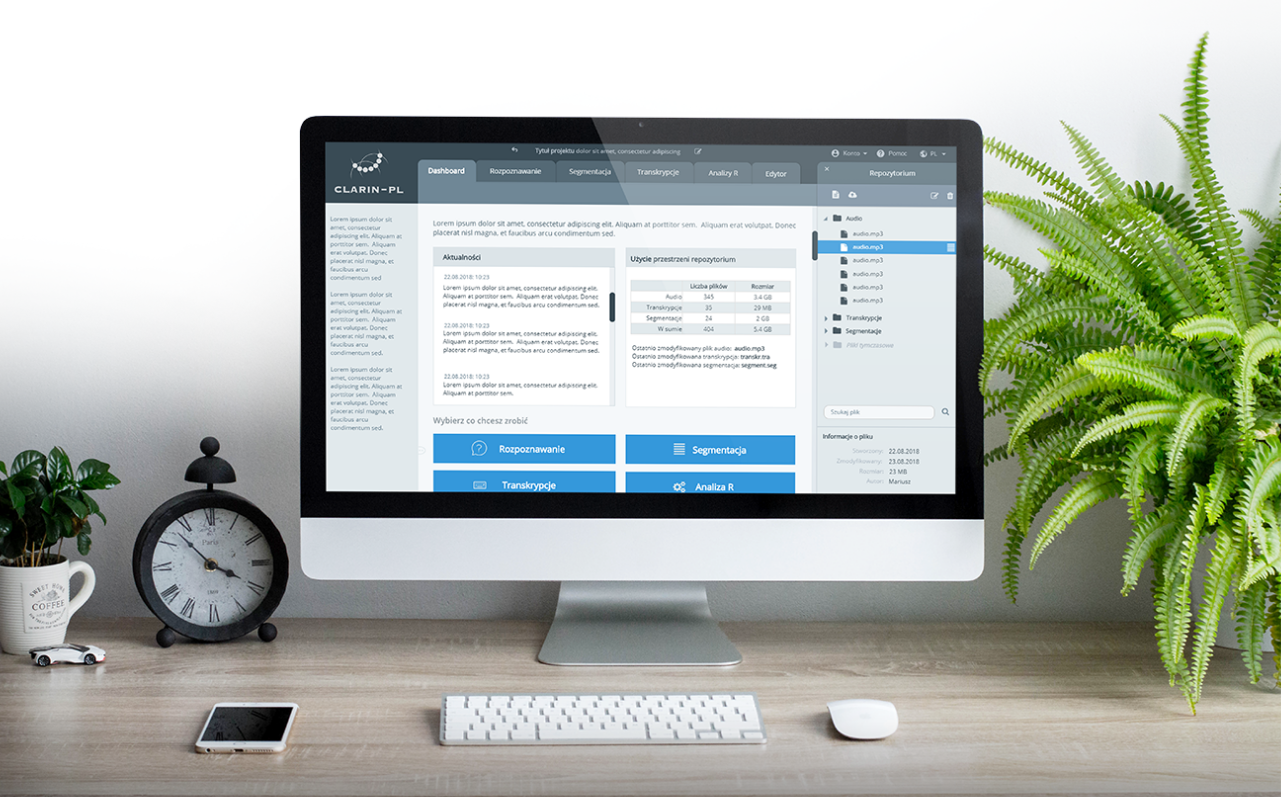
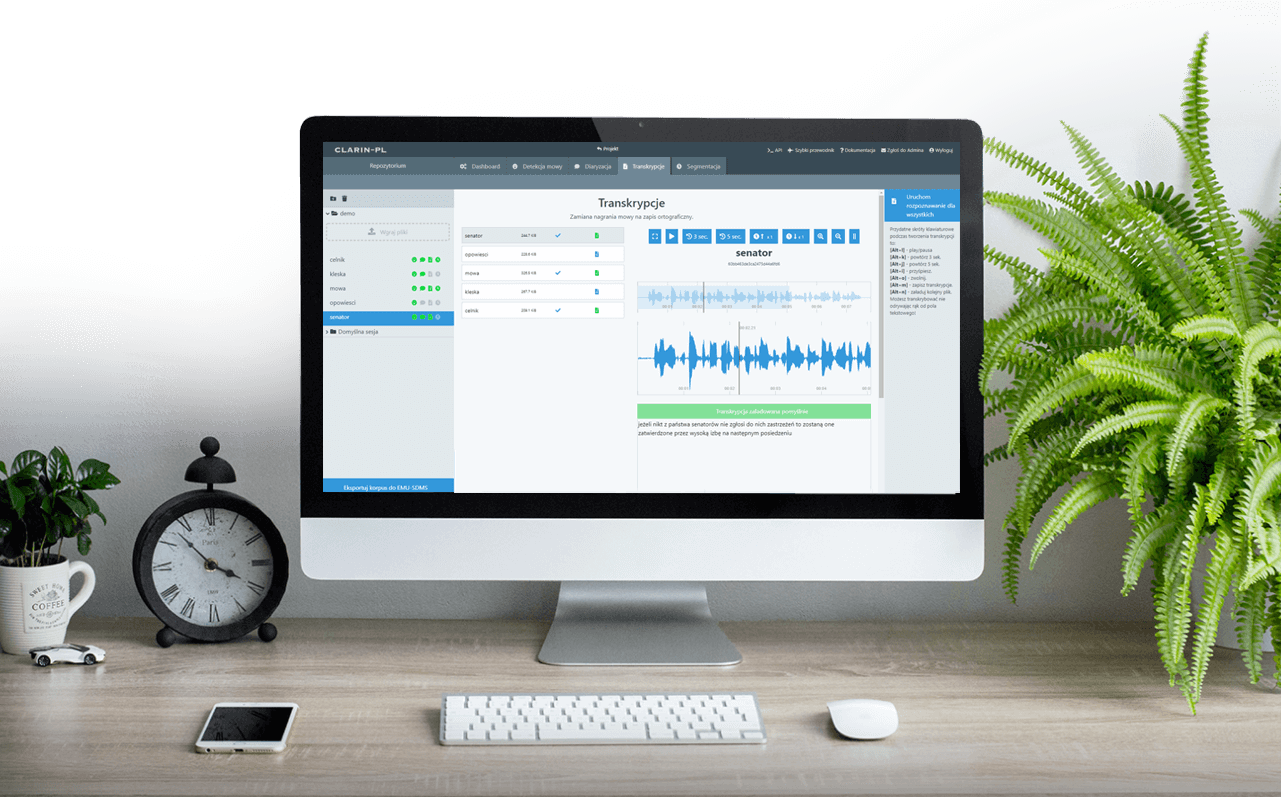
dodanie informacji o braku kontenerów w liscie przetwarzania oraz wymiana obrazka na str. glownej

Changed region(s): [[0.2494, 0.1807, 0.7482, 0.6324]]

diff --git a/src/containers/ProjectPage/Dashboard/Dashboard.js b/src/containers/ProjectPage/Dashboard/Dashboard.js
@@ -18,19 +18,14 @@ class Dashboard extends Component {
       
     render(){
 
-        //let liczbaPlikowRepo = this.props.repoFiles.length;
-        //let liczbaPlikowRepo = 0;
-        //let miejscePlikowRepo = 0;
-       // this.props.repoFiles.map(file => {
-       //     return miejscePlikowRepo = miejscePlikowRepo + file.size;
-       // });
+        console.log(this.props.location)
 
         return(
             <Aux>
     
                 <LeftSiteBar 
                     czyTopPart="true"
-                    desc="W tym miejscu znajdują się statystyki aktualnie wykonywanych usług oraz przestrzeni zajmowanej przez wgrane pliki do repozytorium." />
+                    desc="W tym miejscu znajdują się statystyki przestrzeni zajmowanej przez wgrane pliki do repozytorium oraz pomocne skróty." />
     
                 <SettingBar />
     
@@ -66,30 +61,59 @@ class Dashboard extends Component {
                             </div>
                             <div className="col-md-6">
 
-                                <div className="card mb-3">
-                                    <div className={["card-header", "cardHeader"].join(' ')}>Szybkie linki</div>
-                                    <div className="card-body text-dark">
-                                      
-                                      <p> 
-                                        <Link to={this.props.location.pathname.replace('dashboard','recognition')}>
-                                            <button type="button" className="btn btn-primary btn-block op-btn">
-                                                <i className="fas fa-comments"></i> Rozpoznawanie mowy
+                            <div className="card mb-3">
+                                <div className={["card-header", "cardHeader"].join(' ')}>Szybkie linki</div>
+                                <div className="card-body text-dark">
+                                    <p> 
+                                            <button type="button" className="btn btn-primary btn-block op-btn" onClick={()=>alert("test")}>
+                                                <i className="fas fa-comments"></i> Szybki przewodnik
                                             </button>
-                                        </Link>
-                                      </p>
-                                      <p>
-                                        <Link to={this.props.location.pathname.replace('dashboard','segment')}>
+                                    </p>
+                                    
+                                    <p> 
+                                        <a href="/docs/doc.html" target="_blank">
                                             <button type="button" className="btn btn-primary btn-block op-btn">
-                                                <i className="fas fa-cogs"></i> Segmentacja</button>
-                                        </Link>
-                                      </p>
-                                      <p>
-                                        <Link to="/docs/doc.html"> 
-                                             <button type="button" className="btn btn-primary btn-block op-btn"><i className="fas fa-question-circle"></i> Pomoc</button>
-                                        </Link>
-                                     </p>
-                                    </div>
+                                                <i className="fas fa-comments"></i> Instrukcja obsługi
+                                            </button>
+                                        </a>
+                                    </p>
+                                    <p> 
+                                        <a href="/apidoc/index.html" target="_blank">
+                                            <button type="button" className="btn btn-primary btn-block op-btn">
+                                                <i className="fas fa-comments"></i> Dokumentacja API
+                                            </button>
+                                        </a>
+                                    </p>
+                                    <p> 
+                                            <button type="button" className="btn btn-primary btn-block op-btn" onClick={()=>alert("test")}>
+                                                <i className="fas fa-comments"></i> Zgłoś awarię bądź sugestię
+                                            </button>
+                                    </p>
+                                    <p> 
+                                            <button type="button" className="btn btn-primary btn-block op-btn" onClick={()=>alert("test")}>
+                                                <i className="fas fa-comments"></i> Wyloguj
+                                            </button>
+                                    </p>
+                                    {
+                                        /*
+                                            <p> 
+                                                <Link to={this.props.location.pathname.replace('dashboard','recognition')}>
+                                                    <button type="button" className="btn btn-primary btn-block op-btn">
+                                                        <i className="fas fa-comments"></i> Rozpoznawanie mowy
+                                                    </button>
+                                                </Link>
+                                                </p>
+                                                <p>
+                                                <Link to={this.props.location.pathname.replace('dashboard','segment')}>
+                                                    <button type="button" className="btn btn-primary btn-block op-btn">
+                                                        <i className="fas fa-cogs"></i> Segmentacja</button>
+                                                </Link>
+                                            </p>
+                                        */
+                                    }
+                                   
                                 </div>
+                            </div>
 
                                 {
 

diff --git a/src/containers/ProjectPage/RecognitionTool/RecognitionTool.js b/src/containers/ProjectPage/RecognitionTool/RecognitionTool.js
@@ -124,7 +124,7 @@ class RecognitionTool extends Component {
 
         let filelist = null;
 
-        if (this.props.containersForREC.length > 0) {
+       // if (this.props.containersForREC.length > 0) {
 
                 filelist = this.props.containersForREC.map((file, i) => {
 
@@ -142,7 +142,7 @@ class RecognitionTool extends Component {
                     )
                 }  
             )
-        }
+      //  }
 
 
         return (
@@ -199,7 +199,7 @@ class RecognitionTool extends Component {
                                     <div className="file-list" >
                                 
                                         {
-                                            !filelist?
+                                            filelist.length === 0?
                                             <div className="alert alert-primary" role="alert">
                                                 Dodaj pliki z repozytorium do listy transkrypcji
                                             </div>

diff --git a/src/containers/ProjectPage/VADTool/VADTool.js b/src/containers/ProjectPage/VADTool/VADTool.js
@@ -127,6 +127,7 @@ class VADTool extends Component {
 			
 		})
 
+
 		return (
 			<Aux>
 
@@ -188,7 +189,13 @@ class VADTool extends Component {
 									//<h3>Lista plików do przetworzenia</h3>
 								   } 
                                     <div className="file-list">
-                                        {filelist}
+										{
+                                            filelist.length == 0?
+                                            <div className="alert alert-primary" role="alert">
+                                                Dodaj pliki z repozytorium do listy detekcji mowy
+                                            </div>
+                                            :filelist
+                                        }
                                     </div>
                                 </div>
 

diff --git a/src/containers/ProjectPage/SegmentTool/SegmentTool.js b/src/containers/ProjectPage/SegmentTool/SegmentTool.js
@@ -151,7 +151,13 @@ class SegmentTool extends Component {
 							<div className="row">
                                 <div className={"col-md-"+szer1col}>
                                     <div className="file-list">
-                                        {filelist}
+									    {
+                                            filelist.length == 0?
+                                            <div className="alert alert-primary" role="alert">
+                                                Dodaj pliki z repozytorium do listy segmentacji
+                                            </div>
+                                            :filelist
+                                        }
                                     </div>
                                 </div>
 

diff --git a/src/containers/ProjectPage/DIATool/DIATool.js b/src/containers/ProjectPage/DIATool/DIATool.js
@@ -184,7 +184,13 @@ class DIATool extends Component {
 										//<h3>Lista plików do przetworzenia</h3>
 									}
                                     <div className="file-list">
-                                        {filelist}
+										{
+                                            filelist.length == 0?
+                                            <div className="alert alert-primary" role="alert">
+                                                Dodaj pliki z repozytorium do listy diaryzacji
+                                            </div>
+                                            :filelist
+                                        }
                                     </div>
                                 </div>
 

diff --git a/src/containers/ProjectsListPage/ProjectsList/ProjectList.js b/src/containers/ProjectsListPage/ProjectsList/ProjectList.js
@@ -21,14 +21,17 @@ const projectsList = (props) => {
 
     return(
         <Aux>
+           
             <div className={"ProjectList"}>
                 {props.siteBar}
-                <table className="table">
-                    <tbody>
-                        {listHeader}
-                        {props.children}
-                    </tbody>
-                </table>
+                <div className="containerForListProject">
+                    <table className="table">
+                        <tbody>
+                            {listHeader}
+                            {props.children}
+                        </tbody>
+                    </table>
+                </div>
             </div>
         </Aux>
     );

diff --git a/src/containers/ProjectsListPage/ProjectsList/ProjectList.css b/src/containers/ProjectsListPage/ProjectsList/ProjectList.css
@@ -13,6 +13,15 @@
    
 }
 
+.ProjectList .containerForListProject {
+    position: absolute;
+    left:0px;
+    right:0px;
+    top: 0px;
+    bottom: 0px;
+    overflow: auto;
+}
+
 .ProjectList tr.thead-dark .title {
     text-align: left;
 }
